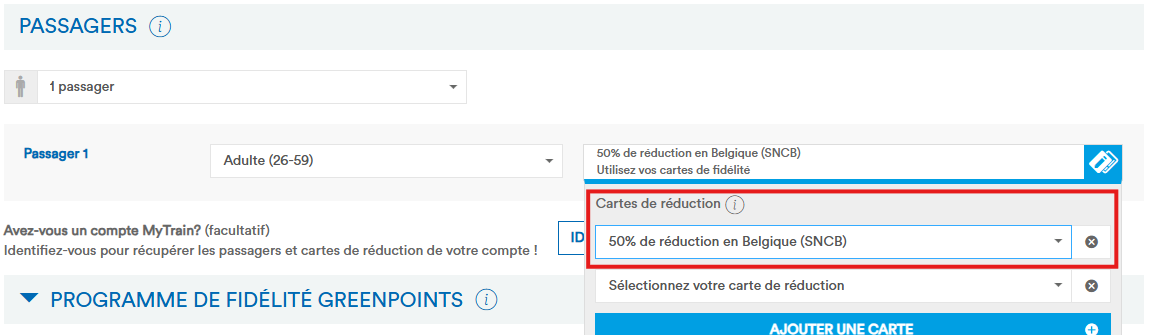
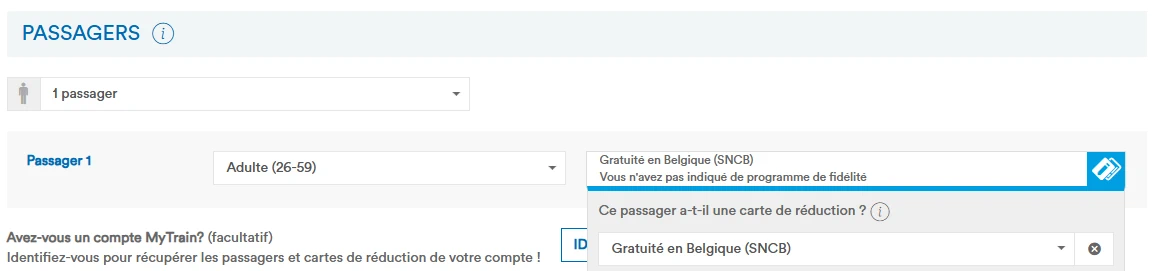
fix: remove fip 50 ticket booking from sncb website (#457)
We got the mail feedback that it is not longer possible to book FIP 50
Tickets on the SNCB website. :(

---------

diff --git a/content/booking/sncb-website/index.de.md b/content/booking/sncb-website/index.de.md
@@ -4,7 +4,8 @@ title: "SNCB International Website"
 description: "Buchungsinformationen für die SNCB Website."
 
 params:
-  fip_50: true
+  fip_50: false
+  reservation: false
   booking_link: "https://www.b-europe.com/DE/Buchen/Zugtickets"
   type: "website"
 
@@ -12,13 +13,12 @@ aliases:
   - sncb_website
 ---
 
-Bei Nutzung einer Freifahrt für die SNCB kann über die Website ein grenzüberschreitendes Ticket gebucht werden, welches die Freifahrt im belgischen Abschnitt berücksichtigt. Dafür bei den Reisenden die Ermäßigung "Freifahrtschein Belgien (SNCB)" angeben. Somit lassen sich z. B. Züge von Belgien nach Lille in Frankreich (außer mit dem `TGV`, der einen Globalpreis besitzt und nicht von der SNCB betrieben wird) sehr günstig buchen.
+Bei Nutzung einer Freifahrt für die SNCB, CFL oder NS kann über die Website ein grenzüberschreitendes Ticket gebucht werden, welches die Freifahrt im belgischen, luxemburgischen oder niederländischen Abschnitt berücksichtigt. Dafür bei den Reisenden die Ermäßigung eine der folgenden Ermäßigungen auswählen:
 
-{{% booking-section "fip_50" %}}
+- _Freifahrtschein Belgien (SNCB)_ bzw. _100% Ermäßigung Belgien (SNCB)_
+- _Freifahrtschein Luxemburg (CFL)_ bzw. _100% Ermäßigung Luxemburg (CFL)_
+- _Freifahrtschein Niederlande (NS)_ bzw. _100% Ermäßigung Niederlande (NS)_
 
-## FIP 50 Fahrkarten
-
-Die SNCB verkauft online Fahrkarten mit FIP 50 Rabatt bei grenzüberschreitenden Verbindungen in die Nachbarländer von Belgien. Dazu einfach bei den Reisenden die Ermäßigung "50% Ermäßigung Belgien (SNCB)" auswählen. Hier können auch mehrere Ermäßigungen, z. B. ein gleichzeitig noch vorhandener Freifahrtschein für die CFL (Luxemburg) oder NS (Niederlande) angegeben werden.
+Somit lassen sich grenzüberschreitende Züge von Belgien z. B. nach Lille in Frankreich (außer mit dem `TGV`, der einen Globalpreis besitzt und nicht von der SNCB betrieben wird) sehr günstig buchen. Im Abschnitt, bei dem keine Vergünstigung angegeben wird, wird jedoch kein FIP 50, sondern der volle Fahrpreis berechnet.
 
 ![SNCB FIP Ticket buchen](fip_sncb_website.webp)
-{{% /booking-section %}}

diff --git a/content/booking/sncb-website/index.fr.md b/content/booking/sncb-website/index.fr.md
@@ -4,7 +4,8 @@ title: "Site Web SNCB International"
 description: "Informations sur la réservation via le site web de la SNCB."
 
 params:
-  fip_50: true
+  fip_50: false
+  reservation: false
   booking_link: "https://www.b-europe.com/FR/Acheter/Billets"
   type: "website"
 
@@ -12,13 +13,12 @@ aliases:
   - sncb_website
 ---
 
-Lorsque vous utilisez un Coupon FIP SNCB, un billet transfrontalier peut être réservé via le site web, qui prend en compte le trajet gratuit sur le territoire belge. Pour cela, sélectionnez la réduction "Gratuité en Belgique (SNCB)" pour les voyageurs. Cela permet par exemple de réserver très facilement des trajets de la Belgique vers Lille (hors `TGV`, tarif global et non exploité par la SNCB).
+Lors de l’utilisation d’un Coupon FIP pour la SNCB, la CFL ou la NS, il est possible de réserver un billet transfrontalier sur le site web, qui prend en compte la gratuité sur le tronçon belge, luxembourgeois ou néerlandais. Pour cela, il faut sélectionner l’une des réductions suivantes pour les voyageurs :
 
-{{% booking-section "fip_50" %}}
+- _Gratuité en Belgique (SNCB)_
+- _Gratuité au Luxembourg (CFL)_
+- _Gratuité aux Pays-Bas (NS)_
 
-## Billets FIP 50
+Ainsi, il est possible de réserver à prix avantageux des trains transfrontaliers au départ de la Belgique, par exemple vers Lille en France (sauf avec le `TGV`, qui possède un Tarif Global FIP et n’est pas exploité par la SNCB). Sur le tronçon pour lequel aucune réduction n’est indiquée, le plein tarif sera appliqué, et non le tarif FIP 50.
 
-La SNCB vend en ligne des billets avec la réduction FIP 50 pour des trajets transfrontaliers vers les pays voisins de la Belgique. Il suffit de sélectionner pour chaque voyageur la réduction « 50% Réduction Belgique (SNCB) ». Plusieurs réductions peuvent être combinées, par exemple un coupon de libre circulation détenu simultanément pour la CFL (Luxembourg) ou NS (Pays-Bas).
-
-![Réserver un Billet FIP SNCB](fip_sncb_website.webp)
-{{% /booking-section %}}
+![Réserver un billet FIP SNCB](fip_sncb_website.webp)

diff --git a/content/booking/sncb-website/index.en.md b/content/booking/sncb-website/index.en.md
@@ -4,7 +4,8 @@ title: "SNCB International Website"
 description: "Booking information for the SNCB website."
 
 params:
-  fip_50: true
+  fip_50: false
+  reservation: false
   booking_link: "https://www.b-europe.com/EN/Booking/Tickets"
   type: "website"
 
@@ -12,13 +13,12 @@ aliases:
   - sncb_website
 ---
 
-When using a SNCB FIP Coupon, a cross-border ticket can be booked via the website, which takes the free travel within the Belgian section into account. To do this, select the discount "100% Discount Belgium (SNCB)" for the travelers. This allows, for example, very affordable bookings for trains from Belgium to Lille in France (except for the `TGV`, which has a Global Fare and is not operated by SNCB).
+When using a FIP Coupon for SNCB, CFL, or NS, you can book a cross-border ticket on the website that takes the free travel into account for the Belgian, Luxembourgish, or Dutch section. To do this, select one of the following discounts for the travelers:
 
-{{% booking-section "fip_50" %}}
+- _100% Discount Belgium (SNCB)_
+- _100% Discount Luxembourg (CFL)_
+- _100% Discount Netherlands (NS)_
 
-## FIP 50 Tickets
-
-The SNCB sells tickets online with a FIP 50 discount for cross-border connections to Belgium's neighbouring countries. Simply select the discount "50% Discount Belgium (SNCB)" for the travelers. Multiple discounts can also be specified here, e.g., a simultaneously valid FIP Coupons for CFL (Luxembourg) or NS (Netherlands).
+This allows you to book cross-border trains from Belgium, for example to Lille in France (except for the `TGV`, which has a Global Fare and is not operated by SNCB), at a very low price. For sections, where no discount is selected, the full fare will be charged instead of the FIP 50 fare.
 
 ![Book an SNCB FIP Ticket](fip_sncb_website.webp)
-{{% /booking-section %}}

diff --git a/content/news/2/index.fr.md b/content/news/2/index.fr.md
@@ -24,3 +24,6 @@ L’offre comprend les options suivantes :
   En outre, « 100% discount Netherlands » et « FIP Coupon Luxembourg (CFL) » peuvent aussi être sélectionnés, et plusieurs réductions peuvent être combinées, par exemple avec une BahnCard. Cela permet de réserver de nombreux trajets FIP combinés à tarif réduit.
 
 N’hésitez pas à nous écrire via notre formulaire de contact si vous avez des retours sur les réductions proposées sur le site.
+
+**Mise à jour 05.11.2025 :** \
+L'option de réservation des billets FIP 50 a depuis été supprimée. Il est désormais uniquement possible de réserver des billets prenant en compte le Coupon FIP.

diff --git a/content/news/2/index.de.md b/content/news/2/index.de.md
@@ -24,3 +24,6 @@ Das Angebot umfasst folgende Möglichkeiten:
   Darüber hinaus können auch "100% Ermäßigung Niederlande" und "Freifahrtschein Luxemburg (CFL)" angegeben werden und auch mehrere Ermäßigungen kombiniert werden, beispielsweise auch noch mit einer BahnCard. Damit lassen sich hier viele kombinierte vergünstigte FIP-Fahrten buchen.
 
 Schreibt uns gerne über unser Kontaktformular, wenn ihr Erfahrungen mit den Vergünstigungen über die Website gemacht habt.
+
+**Update 05.11.2025:** \
+Die Funktion zum Buchen von FIP 50 Tickets wurde mittlerweile wieder entfernt. Nur noch die Buchung von Tickets mit Berücksichtigung der Freifahrt ist möglich.

diff --git a/content/news/2/index.en.md b/content/news/2/index.en.md
@@ -24,3 +24,6 @@ The offer includes the following options:
   In addition, "100% discount Netherlands" and "FIP Coupon Luxembourg (CFL)" can also be selected, and multiple discounts can be combined, for example, with a BahnCard. This allows for many combined discounted FIP journeys to be booked here.
 
 Feel free to write to us via our contact form if you have any experiences with the discounts on the website.
+
+**Update 05.11.2025:** \
+The option to book FIP 50 Tickets has since been removed. It is now only possible to book tickets that take the FIP Coupon into account.

diff --git a/content/operator/sncb/index.fr.md b/content/operator/sncb/index.fr.md
@@ -104,7 +104,7 @@ Trains supplémentaires vers certaines destinations touristiques, souvent simple
 Les trajets nationaux ne peuvent malheureusement pas être achetés en ligne.
 
 {{% booking id="sncb-website"
-  subtitle="Uniquement pour les trajets transfrontaliers à destination ou en provenance de la Belgique"
+  subtitle="Uniquement pour les trajets transfrontaliers à destination ou en provenance de la Belgique avec un Coupon FIP."
 /%}}
 
 {{% booking id="db-website-fip-db"

diff --git a/content/operator/ns/index.fr.md b/content/operator/ns/index.fr.md
@@ -105,6 +105,12 @@ Trains régionaux pour les courtes distances, avec arrêt dans toutes les gares 
 
 ### En ligne
 
+Les trajets nationaux ne peuvent malheureusement pas être achetés en ligne.
+
+{{% booking id="sncb-website"
+  subtitle="Uniquement pour les trajets transfrontaliers à destination ou en provenance de la Belgique avec un Coupon FIP."
+/%}}
+
 {{% booking id="db-website"
     subtitle="Pour les connexions ICE et IC transfrontalières"
 /%}}

diff --git a/content/operator/sncf/index.fr.md b/content/operator/sncf/index.fr.md
@@ -114,6 +114,8 @@ Le RER est un train de banlieue exploité par la SNCF en Île-de-France (région
 
 ### En ligne
 
+Les trajets nationaux ne peuvent malheureusement pas être achetés en ligne.
+
 {{% booking id="db-website-fip-db"
   subtitle="Billets FIP 50 transfrontaliers pour TGV/ICE et trains régionaux entre l’Allemagne et la France, avec une part de billet uniquement pour la section française. Réservé aux employés de la Deutsche Bahn."
 /%}}

diff --git a/content/operator/sncf/index.de.md b/content/operator/sncf/index.de.md
@@ -114,6 +114,8 @@ Der RER ist ein S-Bahn ähnlicher Zug der SNCF, der in Île de France (Großraum
 
 ### Online
 
+Nationale Verbindungen können online leider nicht erworben werden.
+
 {{% booking id="db-website-fip-db"
     subtitle="Grenzüberschreitende FIP 50 Tickets für TGV/ICE und Regionalzüge zwischen Deutschland und Frankreich, mit Ticketanteil nur für den französischen Abschnitt. Nur für Mitarbeiter der Deutschen Bahn."
 /%}}

diff --git a/content/operator/sncb/index.de.md b/content/operator/sncb/index.de.md
@@ -104,7 +104,7 @@ Zusätzliche Züge zu bestimmten touristischen Zielen, oft auch einfach als `R` 
 Nationale Verbindungen können online leider nicht erworben werden.
 
 {{% booking id="sncb-website"
-    subtitle="Nur für grenzüberschreitende Verbindungen von/nach Belgien"
+    subtitle="Nur für grenzüberschreitende Verbindungen von/nach Belgien mit FIP Freifahrtschein."
 /%}}
 
 {{% booking id="db-website-fip-db"

diff --git a/content/operator/ns/index.de.md b/content/operator/ns/index.de.md
@@ -104,6 +104,12 @@ Regionalzüge für kurze Verbindungen mit Halt an jedem Bahnhof auf der Strecke.
 
 ### Online
 
+Nationale Verbindungen können online leider nicht erworben werden.
+
+{{% booking id="sncb-website"
+    subtitle="Nur für grenzüberschreitende Verbindungen von/nach Belgien mit FIP Freifahrtschein."
+/%}}
+
 {{% booking id="db-website"
     subtitle="Für internationale ICE und IC Züge"
 /%}}
